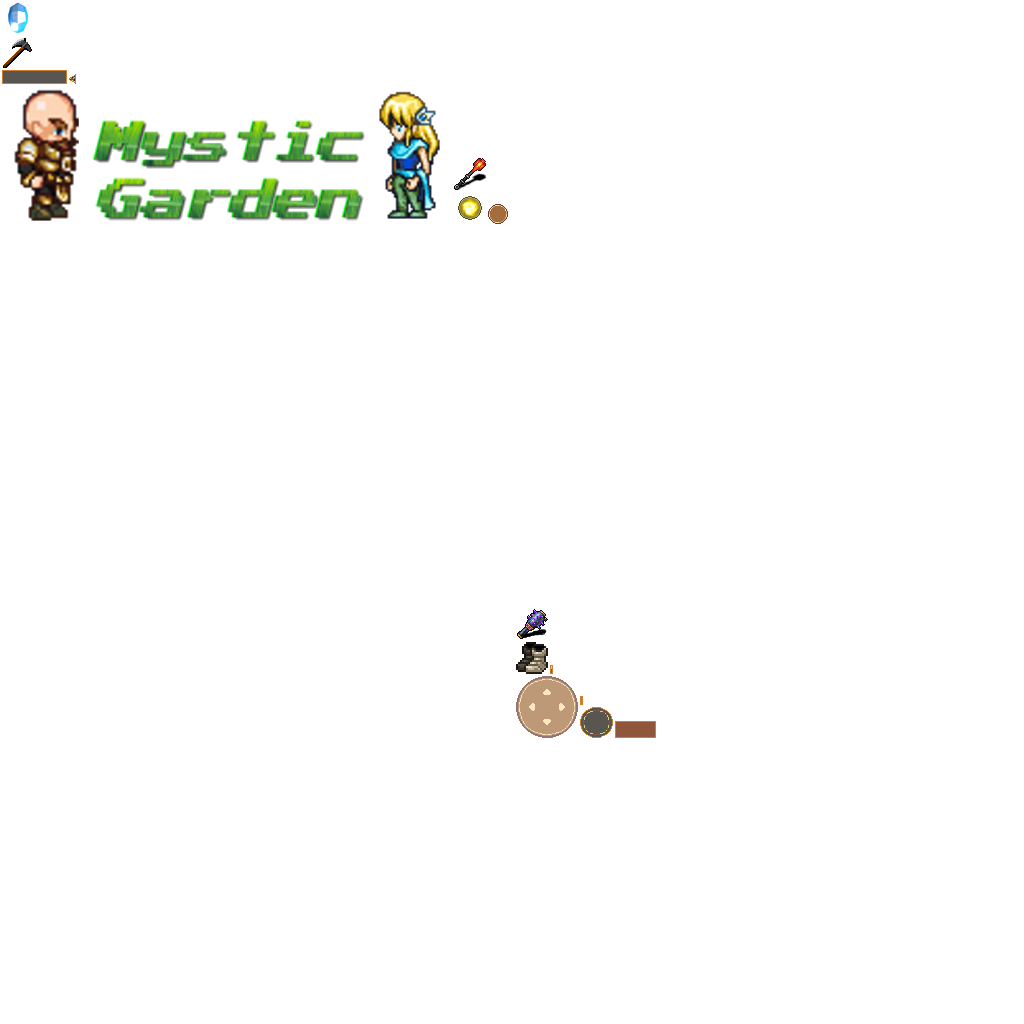
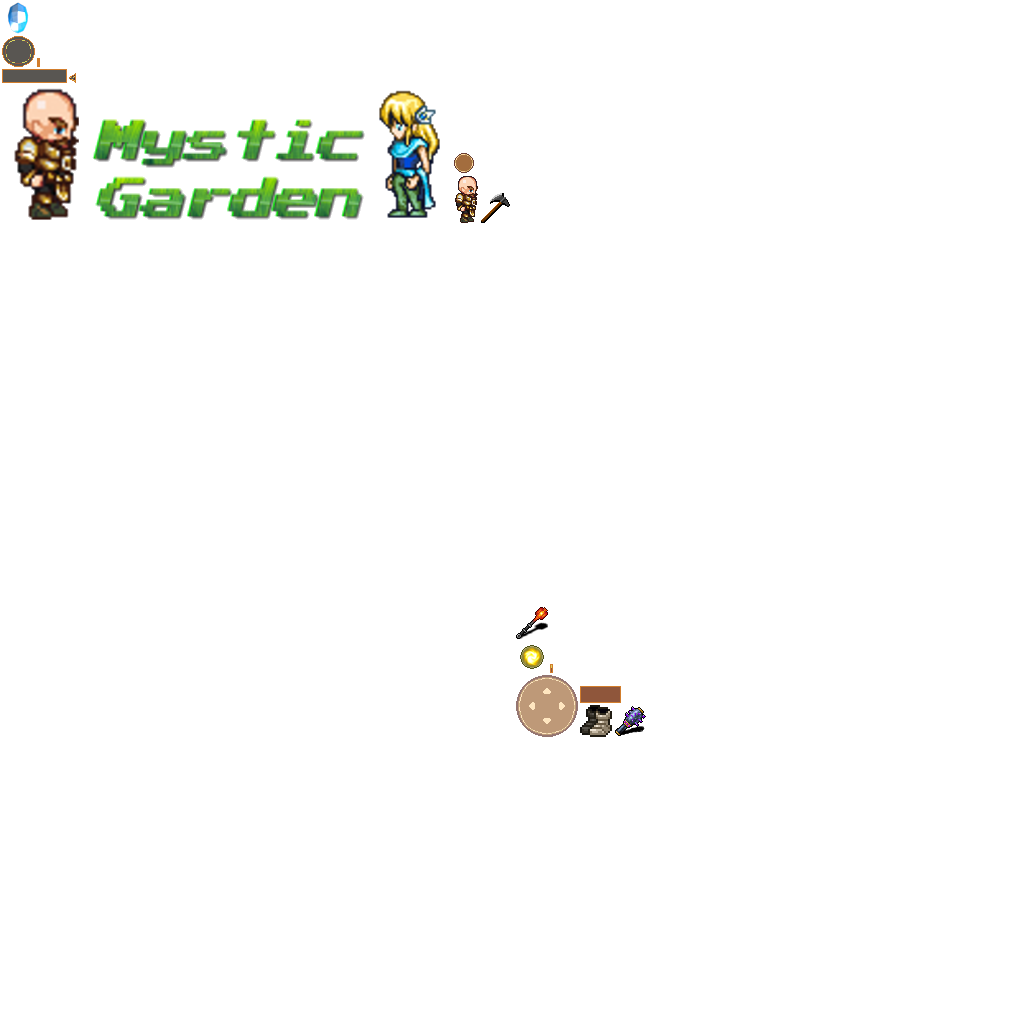
add ControlsScreen (=starting screen)

Changed region(s): [[0.0, 0.0312, 0.5, 0.2188], [0.5, 0.5938, 0.6562, 0.7188]]

diff --git a/core/src/main/kotlin/com/github/quillraven/mysticgarden/ui/view/ControlsView.kt b/core/src/main/kotlin/com/github/quillraven/mysticgarden/ui/view/ControlsView.kt
@@ -1,0 +1,66 @@
+package com.github.quillraven.mysticgarden.ui.view
+
+import com.badlogic.gdx.scenes.scene2d.actions.Actions.*
+import com.badlogic.gdx.scenes.scene2d.ui.Table
+import com.badlogic.gdx.utils.Align
+import com.badlogic.gdx.utils.I18NBundle
+import com.badlogic.gdx.utils.Scaling
+import com.github.quillraven.mysticgarden.MysticGarden
+import com.github.quillraven.mysticgarden.ui.Drawable
+import com.github.quillraven.mysticgarden.ui.I18N
+import com.github.quillraven.mysticgarden.ui.Label
+import com.github.quillraven.mysticgarden.ui.get
+import ktx.actors.plusAssign
+import ktx.i18n.get
+import ktx.scene2d.*
+
+class ControlsView(
+    private val i18n: I18NBundle,
+) : KTable, Table(Scene2DSkin.defaultSkin) {
+
+    init {
+        image(Scene2DSkin.defaultSkin[Drawable.BANNER]) { cell ->
+            this.setScaling(Scaling.contain)
+            cell.expandX().fillX().height(90f).row()
+        }
+
+        table { innerTableCell ->
+            background = Scene2DSkin.defaultSkin[Drawable.FRAME3]
+
+            image(Scene2DSkin.defaultSkin[Drawable.HERO]) {
+                this.setScaling(Scaling.contain)
+            }
+
+            val heroCtrlText = if (MysticGarden.isMobile) I18N.CONTROLSHERO_MOBILE else I18N.CONTROLSHERO
+            label(this@ControlsView.i18n[heroCtrlText], Label.NORMAL.skinKey) { cell ->
+                this.setAlignment(Align.center, Align.center)
+                this.wrap = true
+                cell.expand().fill().pad(5f).row()
+            }
+
+            val otherCtrlText = if (MysticGarden.isMobile) I18N.CONTROLSTOUCH_MOBILE else I18N.CONTROLSTOUCH
+            label(this@ControlsView.i18n[otherCtrlText], Label.NORMAL.skinKey) { cell ->
+                this.setAlignment(Align.center, Align.center)
+                this.wrap = true
+                cell.expand().fill().colspan(2).padLeft(10f).row()
+            }
+
+            innerTableCell.expand().fill().pad(3f).row()
+        }
+
+        label(i18n[I18N.PRESSANYKEY], Label.SMALL.skinKey) { cell ->
+            this.setAlignment(Align.center, Align.center)
+            this += forever(sequence(alpha(0.3f, 1f), alpha(1f, 1f)))
+            cell.expand().fill()
+        }
+
+        this.setFillParent(true)
+    }
+}
+
+
+@Scene2dDsl
+fun <S> KWidget<S>.controlsView(
+    i18n: I18NBundle,
+    init: ControlsView.(S) -> Unit = {}
+): ControlsView = actor(ControlsView(i18n), init)

diff --git a/core/src/main/kotlin/com/github/quillraven/mysticgarden/screen/ControlsScreen.kt b/core/src/main/kotlin/com/github/quillraven/mysticgarden/screen/ControlsScreen.kt
@@ -1,0 +1,44 @@
+package com.github.quillraven.mysticgarden.screen
+
+import com.badlogic.gdx.Gdx
+import com.badlogic.gdx.Input
+import com.badlogic.gdx.scenes.scene2d.Stage
+import com.badlogic.gdx.utils.I18NBundle
+import com.github.quillraven.mysticgarden.MusicAsset
+import com.github.quillraven.mysticgarden.MysticGarden
+import com.github.quillraven.mysticgarden.audio.AudioService
+import com.github.quillraven.mysticgarden.ui.view.controlsView
+import ktx.app.KtxScreen
+import ktx.scene2d.actors
+
+class ControlsScreen(
+    private val game: MysticGarden,
+    private val audioService: AudioService,
+    private val uiStage: Stage,
+    private val i18n: I18NBundle
+) : KtxScreen {
+
+    override fun show() {
+        audioService.play(MusicAsset.MENU)
+
+        uiStage.clear()
+        uiStage.actors { controlsView(i18n) }
+    }
+
+    override fun resize(width: Int, height: Int) {
+        uiStage.viewport.update(width, height, true)
+    }
+
+    override fun render(delta: Float) {
+        val dt = delta.coerceAtMost(0.25f)
+
+        if (Gdx.input.isKeyJustPressed(Input.Keys.ANY_KEY) || Gdx.input.justTouched()) {
+            game.setScreen<GameScreen>()
+        }
+
+        // render UI
+        uiStage.viewport.apply()
+        uiStage.act(dt)
+        uiStage.draw()
+    }
+}

diff --git a/core/src/main/kotlin/com/github/quillraven/mysticgarden/MysticGarden.kt b/core/src/main/kotlin/com/github/quillraven/mysticgarden/MysticGarden.kt
@@ -10,6 +10,7 @@ import com.badlogic.gdx.utils.I18NBundle
 import com.badlogic.gdx.utils.viewport.FitViewport
 import com.github.quillraven.mysticgarden.audio.AudioService
 import com.github.quillraven.mysticgarden.event.EventDispatcher
+import com.github.quillraven.mysticgarden.screen.ControlsScreen
 import com.github.quillraven.mysticgarden.screen.GameScreen
 import com.github.quillraven.mysticgarden.screen.VictoryScreen
 import com.github.quillraven.mysticgarden.ui.Bundle
@@ -52,9 +53,10 @@ class MysticGarden : KtxGame<KtxScreen>() {
         audioService.sndVolume = prefs[prefKeySound, 1f]
 
         // add screens and set start screen
+        addScreen(ControlsScreen(this, audioService, uiStage, i18n))
         addScreen(GameScreen(this, batch, assets, uiStage, prefs, audioService, eventDispatcher, i18n))
         addScreen(VictoryScreen(uiStage, i18n, audioService, eventDispatcher))
-        setScreen<GameScreen>()
+        setScreen<ControlsScreen>()
     }
 
     override fun render() {

diff --git a/core/src/main/kotlin/com/github/quillraven/mysticgarden/ui/I18N.kt b/core/src/main/kotlin/com/github/quillraven/mysticgarden/ui/I18N.kt
@@ -5,6 +5,10 @@ import ktx.i18n.BundleLine
 /** Generated from assets/i18n/strings.properties file. */
 enum class I18N : BundleLine {
     CONTINUE,
+    CONTROLSHERO,
+    CONTROLSHERO_MOBILE,
+    CONTROLSTOUCH,
+    CONTROLSTOUCH_MOBILE,
     CREDITS,
     CREDITS_MENU,
     ITEM_PICKUP,

diff --git a/core/src/main/kotlin/com/github/quillraven/mysticgarden/ui/skin.kt b/core/src/main/kotlin/com/github/quillraven/mysticgarden/ui/skin.kt
@@ -49,7 +49,8 @@ enum class Drawable {
     TOUCH_PAD,
     WAND,
     BOOTS,
-    BANNER;
+    BANNER,
+    HERO;
 
     val atlasKey: String = this.name.lowercase()
 }

diff --git a/README.md b/README.md
@@ -2,7 +2,23 @@
 hobby project with libgdx to create a small puzzle like game that will be later used for a youtube tutorial series.
 The project will use ashley, box2d, tiled, truetypefont and scene2d
 
+# TODOs
+
+* MenuScreen (new game, continue, audio volume, exit, onMobile -> TP position L or R)
+* Save/Load (for continue logic, new game -> clear map info from preferences)
+  * save when GameScreen gets hidden (or disposed?)
+* GameView: on mobile add button to go back to menu; on other devices just press ESC
+  * add this info to ControlsScreen
+* remove unused assets and constants in code
+* update README in general with screenshots
+
 ### Credits
 
 - [UI](https://lucapixel.itch.io/ultimate-kit-pixel-art)
 - [Orb graphic](https://opengameart.org/content/rotating-orbs)
+- [Graphics and Audio](https://opengameart.org)
+  - Kenney
+  - Lanea Zimmerman
+  - Matthew Pablo
+  - Bart
+  - wobbleboxx
